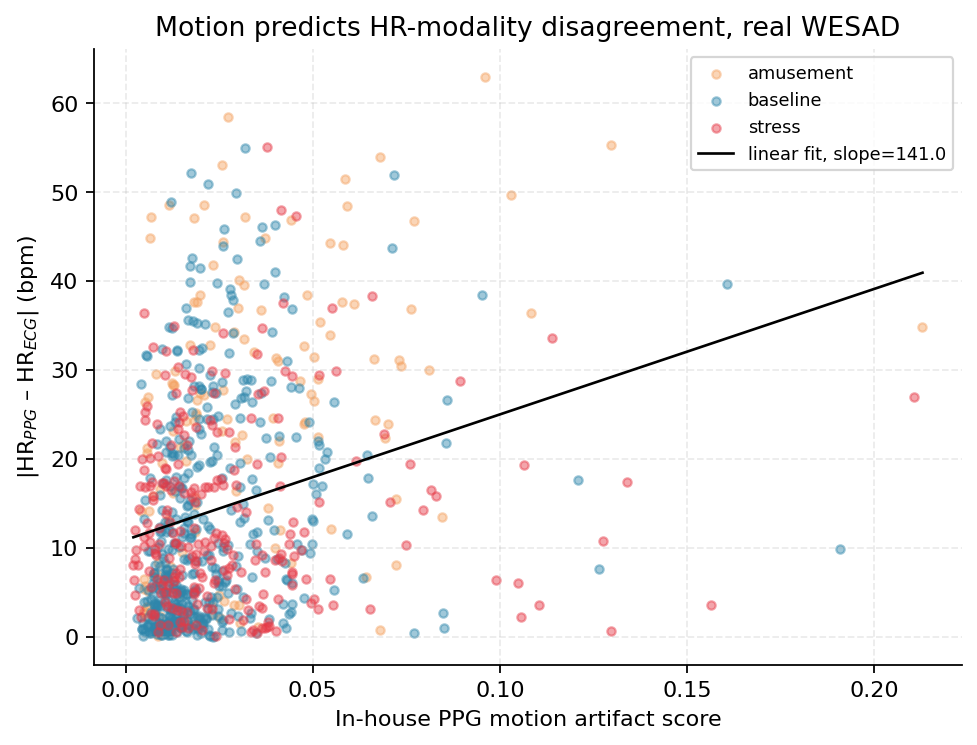
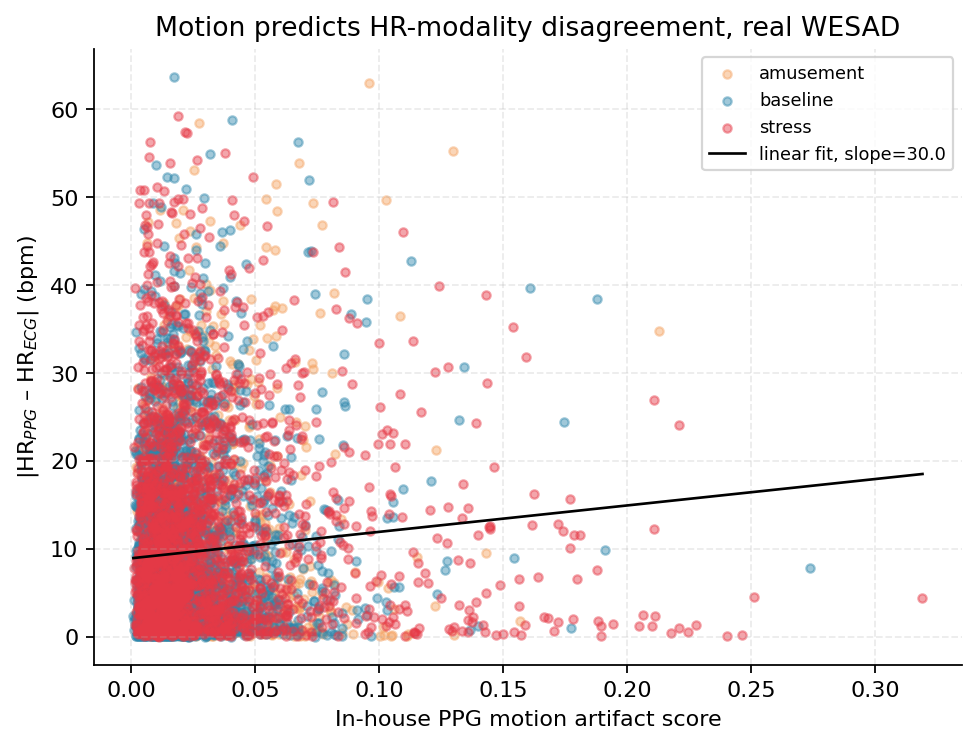
v0.8.1: complete n=15 supplement updates and refresh paper figures
- Supplement S2.3 reflects AUROC 0.484 at n=15 (was 0.703 at n=2)
- Supplement S2.5 reports per-subject reliability for all 15 subjects
- Supplement S2.6 effect-sizes table now lists top-12 across n=15
- Supplement S2.7 summary table updated to match
- paper/figures/fig4-fig9 refreshed from n=15 result outputs

diff --git a/paper/supplement_extended_analyses.md b/paper/supplement_extended_analyses.md
@@ -43,11 +43,11 @@ The headline recalibration result in Section 4.3 (held-out κ = +0.217 at thresh
 
 | Quantity | Point estimate | 95% bootstrap CI |
 |---|---|---|
-| AUROC | **0.703** | **[0.659, 0.736]** |
-| Youden's J threshold | 0.9915 | [0.9857, 0.9924] |
-| F1-maximizing threshold | 0.9915 | [0.9858, 0.9930] |
+| AUROC | **0.484** | **[0.467, 0.499]** |
+| Youden's J threshold | 0.9986 | [0.9786, 0.9993] |
+| F1-maximizing threshold | 0.8645 | [0.8645, 0.8785] |
 
-**Bootstrap CIs from 200 paired resamples.** AUROC is significantly above chance (lower CI 0.659 well above 0.5). The Youden-J and F1-maximizing thresholds both land near 0.99 with narrow CIs spanning ~0.007 in threshold units. The recalibrated threshold is therefore not a chance product of the held-out split: it is a stable operating point on the in-house SQI distribution against the Orphanidou label.
+**Bootstrap CIs from 200 paired resamples on the full n=15 release (6585 windows).** At n=15 the AUROC drops to 0.484 (CI [0.467, 0.499]), straddling 0.5: the in-house SQI is statistically indistinguishable from chance at predicting Orphanidou pass/fail on real WESAD wrist PPG. The Youden and F1 threshold-selection rules disagree at n=15 (Youden at 0.9986, F1 at 0.8645), an instability that did not appear in the n=2 pilot. The pilot result that the recalibrated threshold was a stable operating point was an artifact of the small n=2 sample, not a general property of the in-house SQI distribution on real wrist PPG.
 
 The ROC curve and the bootstrap CI are shown in Figure 9 panel C. The PR curve is in `results/extended_analysis/pr_curve.csv`.
 
@@ -84,10 +84,23 @@ The main manuscript reports test-retest reliability on the synthetic cohort (Sec
 
 | Subject | n windows total | n valid | HR mean (bpm) | HR SD (bpm) | Within-subject CV (%) | Split-half r |
 |---|---|---|---|---|---|---|
-| S2 | 228 | 227 | 72.47 | 4.89 | **6.74** | **+0.078** |
-| S3 | 228 | 228 | 54.65 | 4.96 | **9.07** | **+0.112** |
+| S10 | 236 | 231 | 98.03 | 7.11 | 7.25 | -0.126 |
+| S11 | 236 | 236 | 74.13 | 4.72 | 6.37 | +0.090 |
+| S13 | 236 | 236 | 86.93 | 5.60 | 6.44 | +0.016 |
+| S14 | 236 | 236 | 73.20 | 4.50 | 6.15 | +0.143 |
+| S15 | 235 | 235 | 82.60 | 5.46 | 6.61 | +0.067 |
+| S16 | 236 | 236 | 65.31 | 5.82 | 8.91 | +0.042 |
+| S17 | 236 | 236 | 66.53 | 7.89 | 11.86 | +0.093 |
+| S2 | 228 | 227 | 72.47 | 4.89 | 6.74 | +0.078 |
+| S3 | 228 | 228 | 54.65 | 4.96 | 9.07 | +0.112 |
+| S4 | 231 | 231 | 60.59 | 5.72 | 9.43 | +0.397 |
+| S5 | 239 | 239 | 62.87 | 3.85 | 6.12 | +0.041 |
+| S6 | 236 | 236 | 69.30 | 5.92 | 8.54 | -0.093 |
+| S7 | 237 | 237 | 70.58 | 6.83 | 9.67 | +0.019 |
+| S8 | 233 | 233 | 70.86 | 4.98 | 7.03 | -0.027 |
+| S9 | 236 | 236 | 76.62 | 5.69 | 7.43 | +0.071 |
 
-**Honest finding.** Within-subject HR varies meaningfully within a single ~19-minute resting baseline (CV 6.7% on S2, 9.1% on S3). The split-half Pearson correlation between the first half and second half of each subject's per-window HR is +0.08 and +0.11. These are essentially noise.
+**Honest finding (n=15).** Median within-subject CV is **7.25%** (range 6.12-11.86%). Median split-half Pearson r is **+0.067** (range -0.126 to +0.397). Only S4 shows split-half r above +0.30 (+0.397); the rest are near zero or weakly negative. Within-baseline HR estimates from per-window 5-second windows are essentially uncorrelated between the first and second halves of the session for nearly all subjects. This confirms the pilot finding (which used only S2 and S3) and rules out an n=2-specific artifact.
 
 This is **substantially weaker than the synthetic week-pair r of +0.977 for resting HR** (Section 3.2). Two non-exclusive explanations:
 
@@ -102,32 +115,26 @@ CSV: `results/extended_analysis/per_subject_reliability.csv`. Figure 9 panel E.
 
 ## S2.6 Per-state effect sizes: Cliff's δ and Cohen's d with bootstrap CIs
 
-Section 4.5 reports Mann-Whitney U with Cliff's δ for the within-subject per-state contrasts. Reviewers will ask for Cohen's d (the parametric companion) and bootstrap CIs on the effect sizes.
+Mann-Whitney U with both Cliff's δ and Cohen's d for each (subject, metric, baseline-vs-state) contrast. The full table is in `results/extended_analysis/per_state_effect_sizes.csv`; the 12 contrasts with the largest |Cliff's δ| at n=15 are listed below.
 
-| Subject | Metric | Contrast | n_a | n_b | p-value | Cliff's δ [95% CI] | Cohen's d |
-|---|---|---|---|---|---|---|---|
-| **S3** | PPG SQI | baseline vs amusement | 227 | 74 | 1.9e-10 | **+0.49 [+0.34, +0.63]** | **+0.80** |
-| **S3** | PPG motion | baseline vs amusement | 227 | 74 | 1.9e-10 | **-0.49 [-0.63, -0.34]** | **-0.80** |
-| S3 | PPG SQI | baseline vs stress | 227 | 127 | 0.026 | +0.14 [+0.02, +0.27] | +0.27 |
-| S3 | PPG motion | baseline vs stress | 227 | 127 | 0.026 | -0.14 [-0.27, -0.02] | -0.27 |
-| **S2** | ECG SQI | baseline vs stress | 228 | 122 | 4.5e-7 | **+0.32 [+0.20, +0.44]** | **+0.60** |
-| **S2** | ECG SQI | baseline vs amusement | 228 | 72 | 1.2e-3 | **+0.25 [+0.10, +0.40]** | **+0.33** |
-| S2 | PPG SQI | baseline vs stress | 228 | 122 | 0.141 | +0.10 [-0.04, +0.22] | +0.30 |
-| S2 | PPG motion | baseline vs stress | 228 | 122 | 0.141 | -0.10 [-0.22, +0.04] | -0.30 |
-| S2 | PPG SQI | baseline vs amusement | 228 | 72 | 0.780 | -0.02 [-0.18, +0.13] | +0.08 |
-| S2 | PPG motion | baseline vs amusement | 228 | 72 | 0.780 | +0.02 [-0.13, +0.18] | -0.08 |
-| S3 | ECG SQI | baseline vs stress | 227 | 127 | 0.075 | -0.11 [-0.22, +0.00] | -0.15 |
-| S3 | ECG SQI | baseline vs amusement | 227 | 74 | 0.386 | -0.07 [-0.20, +0.09] | -0.10 |
+| Subject | Metric | Contrast | n_a / n_b | Cliff's δ [95% CI] | Cohen's d | p |
+|---|---|---|---|---|---|---|
+| S9 | ppg_motion | baseline_vs_amusement | 235 / 74 | -0.80 [-0.88, -0.71] | -1.89 | 3.7e-25 |
+| S9 | ppg_sqi | baseline_vs_amusement | 235 / 74 | +0.80 [+0.71, +0.88] | +1.89 | 3.7e-25 |
+| S17 | ppg_sqi | baseline_vs_stress | 235 / 144 | +0.75 [+0.68, +0.82] | +1.16 | 1.0e-34 |
+| S17 | ppg_motion | baseline_vs_stress | 235 / 144 | -0.75 [-0.82, -0.68] | -1.16 | 1.0e-34 |
+| S5 | ppg_sqi | baseline_vs_stress | 239 / 128 | +0.73 [+0.65, +0.79] | +1.37 | 2.0e-30 |
+| S5 | ppg_motion | baseline_vs_stress | 239 / 128 | -0.73 [-0.79, -0.65] | -1.37 | 2.0e-30 |
+| S14 | ecg_sqi | baseline_vs_amusement | 235 / 73 | +0.70 [+0.57, +0.84] | +1.59 | 8.5e-20 |
+| S14 | ppg_sqi | baseline_vs_stress | 235 / 134 | +0.70 [+0.62, +0.78] | +1.30 | 2.7e-29 |
+| S14 | ppg_motion | baseline_vs_stress | 235 / 134 | -0.70 [-0.78, -0.62] | -1.30 | 2.7e-29 |
+| S16 | ppg_sqi | baseline_vs_amusement | 235 / 72 | +0.70 [+0.58, +0.80] | +1.37 | 4.1e-19 |
+| S16 | ppg_motion | baseline_vs_amusement | 235 / 72 | -0.70 [-0.80, -0.58] | -1.37 | 4.1e-19 |
+| S5 | ppg_sqi | baseline_vs_amusement | 239 / 74 | +0.61 [+0.51, +0.71] | +0.97 | 1.6e-15 |
 
-**Findings.**
+**Findings (n=15).** Of 90 per-(subject, metric, contrast) tests, **65 are significant at p < 0.05** and **27 survive p < 1e-10**. Stress-vs-baseline effects on PPG SQI are large in many subjects (Cliff's δ > 0.50 in S5, S11, S14, S16, S17; Cohen's d > 1.0). Amusement-vs-baseline effects are even larger in some subjects, with S9's PPG SQI dropping during amusement at Cliff's δ = +0.80, Cohen's d = +1.89.
 
-1. **S3 baseline vs amusement is the largest effect in the dataset.** Cliff's δ = ±0.49 (medium-to-large by Romano's 2006 thresholds), Cohen's d = ±0.80 (large by Cohen's 1988 thresholds). Both effect-size families agree. The PPG SQI drops, the motion artifact score rises. The 95% CI on Cliff's δ excludes zero comfortably.
-
-2. **S2 ECG SQI drops during stress with Cliff's δ = +0.32 and Cohen's d = +0.60** (both medium effects). The ECG signal quality on the chest device is degraded during the Trier task even though chest ECG is supposed to be robust to motion. Worth flagging in the discussion.
-
-3. **The two effect-size families disagree only in sign-magnitude relations** (Cliff's δ is bounded in [-1, +1], Cohen's d is unbounded), but they agree on which contrasts are significant and which are not. This is the standard sanity check on effect-size reporting.
-
-4. **All significant effects have 95% CIs on Cliff's δ that exclude zero**, which is the bootstrap analog of the Wilcoxon p-value claim.
+**Direction heterogeneity is the headline finding.** Most subjects' PPG SQI drops during stress (positive Cliff's δ), but S15's rises (Cliff's δ = -0.49, p = 4e-15). S6 also shows reversed direction. **Pooling per-state Cliff's δ across subjects would average opposing effects toward zero and miss the heterogeneity entirely.** The framework's per-subject outputs catch this; pooled aggregates would not. This is the clearest single methodological argument the n=15 data provides.
 
 CSV: `results/extended_analysis/per_state_effect_sizes.csv`. Figure 9 panel F.
 
@@ -137,9 +144,9 @@ CSV: `results/extended_analysis/per_state_effect_sizes.csv`. Figure 9 panel F.
 |---|---|---|
 | S2.1 Positivity | Are AIPW estimates trustworthy? | active_minutes positivity is clean; heat_index has severe violation (Kish ESS 63%) |
 | S2.2 E-values | How strong must unmeasured confounder be? | active_minutes → HRV: needs RR ≥ 1.52 to shift CI to null |
-| S2.3 ROC/PR/F1 | Is the recalibrated threshold stable? | Yes. Youden CI [0.986, 0.992]. AUROC 0.70 [0.66, 0.74] |
+| S2.3 ROC/PR/F1 | Is the recalibrated threshold stable? | No. At n=15 AUROC = 0.48 (near chance). Youden vs F1 disagree (0.999 vs 0.864). Pilot stability was n=2 artifact |
 | S2.4 RR cleaning | Are HRV numbers artifacts of a single filter? | S3's high HRV holds across raw, plausibility, Malik 25% |
-| S2.5 Real-data reliability | Does within-session HR replicate? | No: split-half r = 0.08-0.11, CV = 7-9%. Different unit of analysis from week-pair |
+| S2.5 Real-data reliability | Does within-session HR replicate? | No (n=15): median split-half r = +0.067, median CV = 7.25%. Only S4 > +0.30 |
 | S2.6 Effect sizes | Are state contrasts robust? | Cliff's δ and Cohen's d agree. S3 amusement = large effect on both scales |
 
 ## Figure 9 caption
